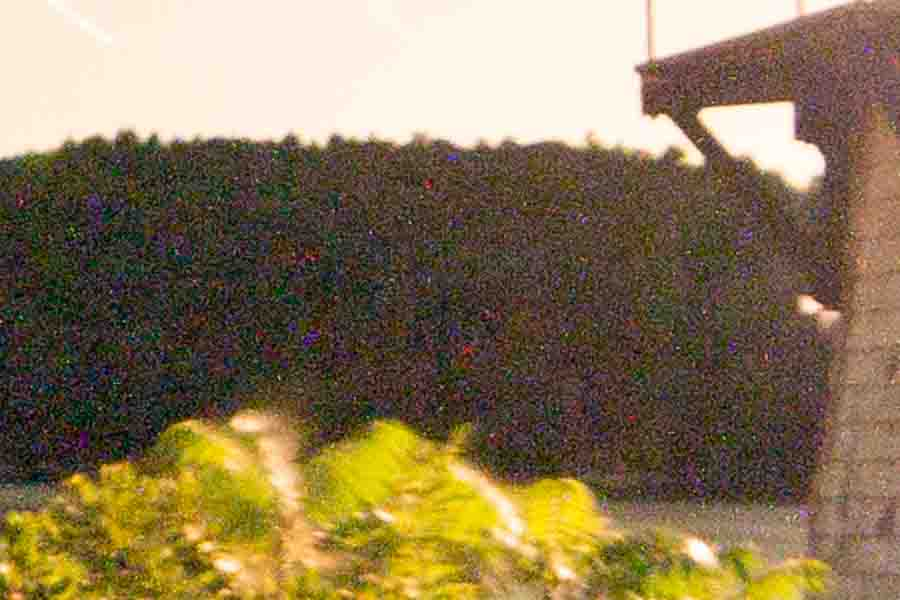
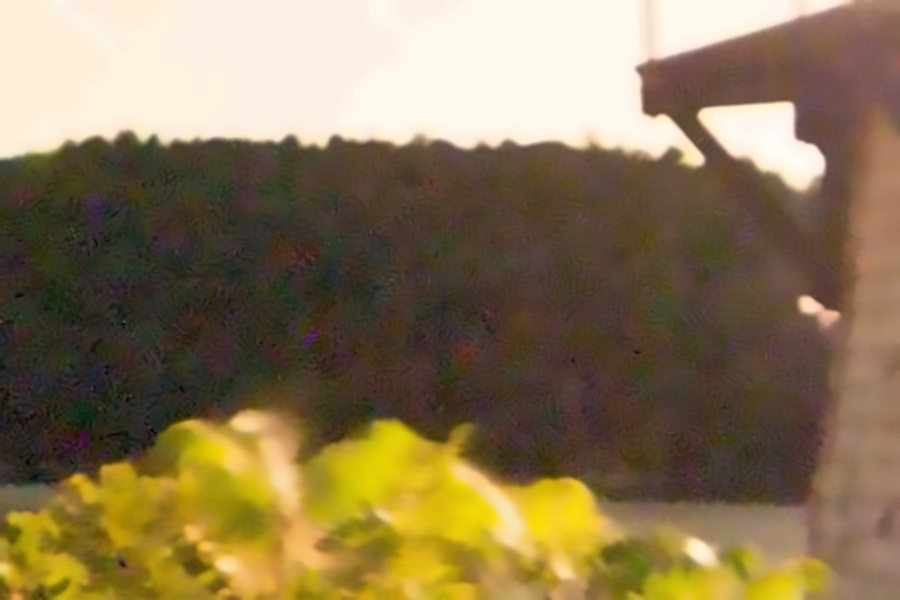
4 pictures

diff --git a/main.py b/main.py
@@ -1,0 +1,15 @@
+import numpy as np
+import cv2 as cv
+from matplotlib import pyplot as plt
+img = cv.imread('n7.jpg')
+
+
+#dst = cv.fastNlMeansDenoisingColored(img,None,20,20,7,21)
+dst = cv.fastNlMeansDenoising(img,None,10,7,21)
+
+plt.subplot(121),plt.imshow(img)
+plt.subplot(122),plt.imshow(dst)
+plt.show()
+
+
+*cv.imwrite('n5.jpg', dst)
